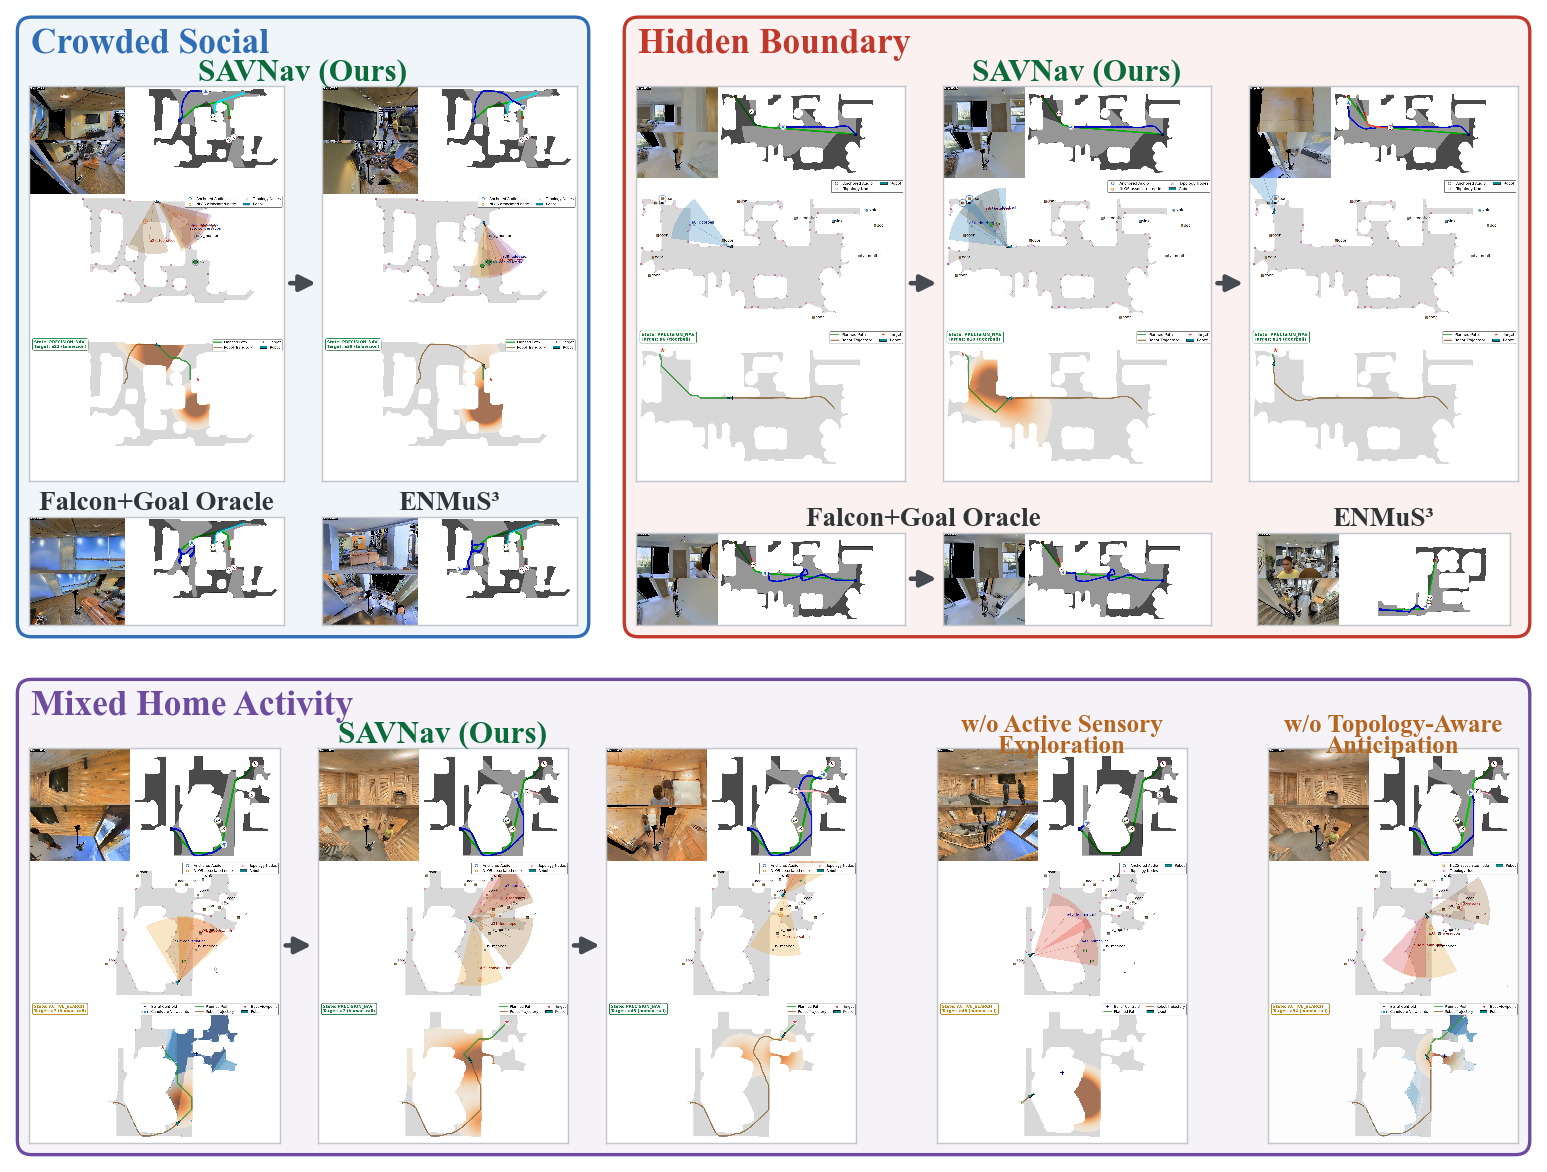
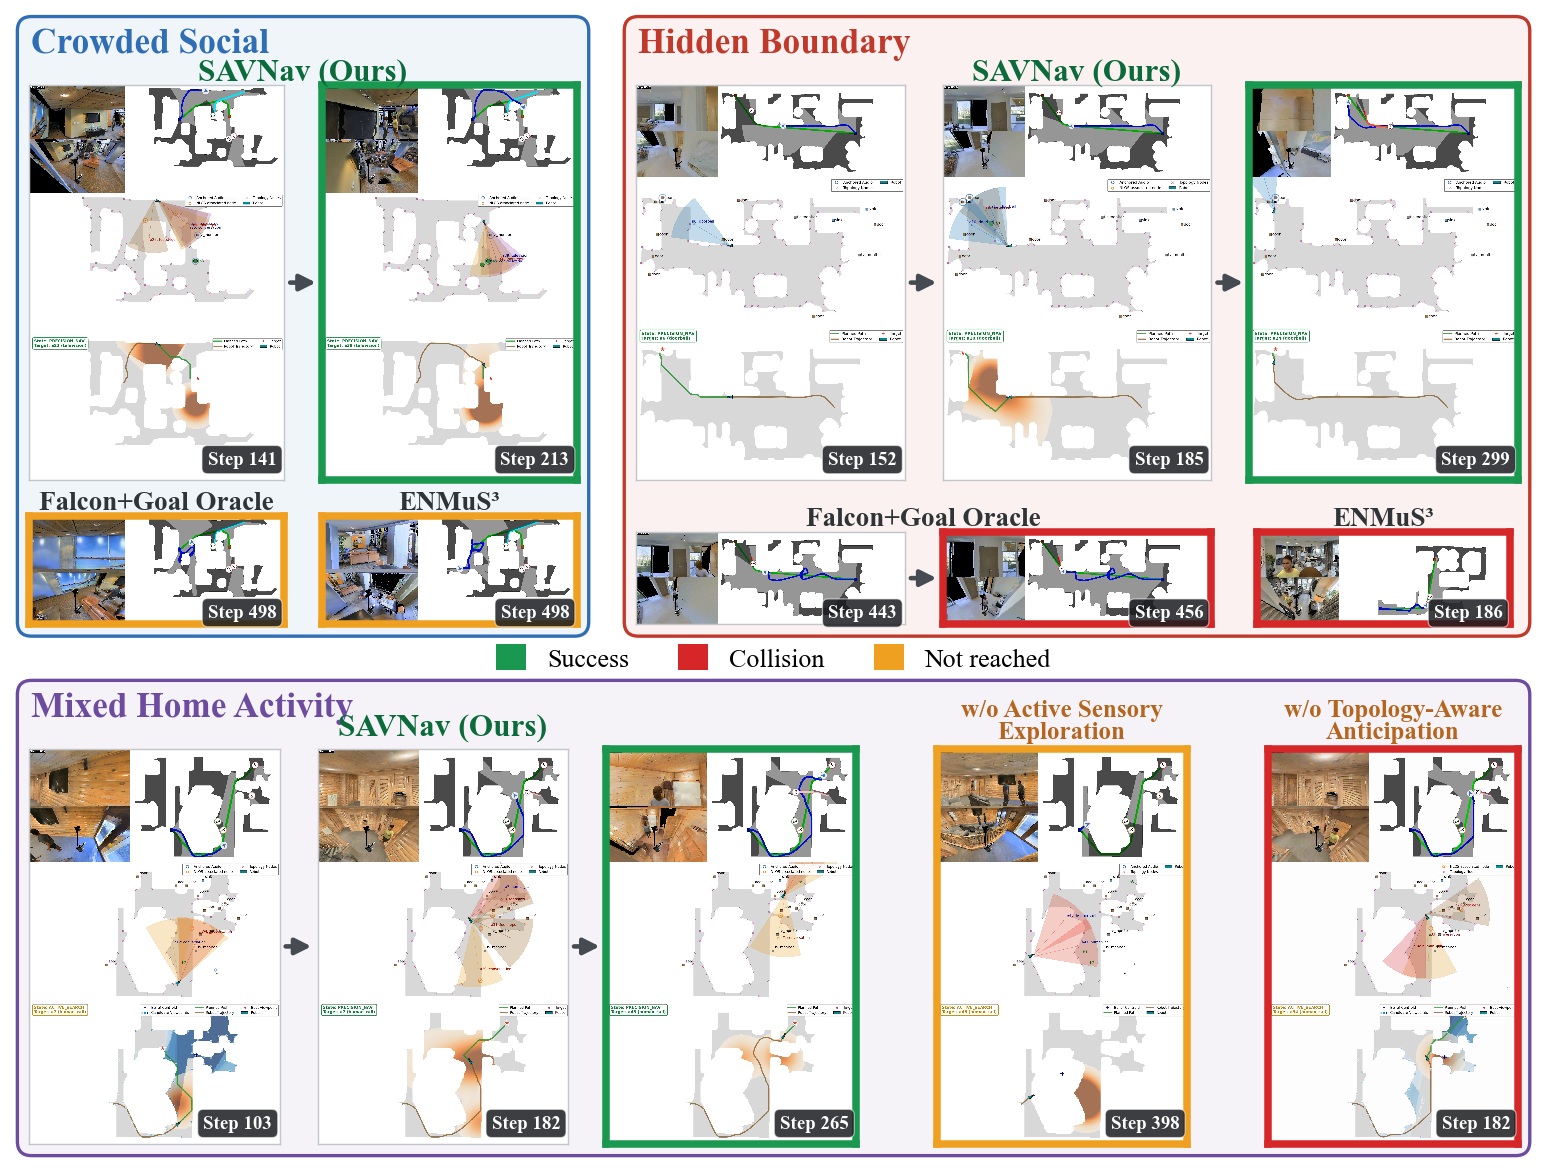
更新实验图表生成脚本，新增可选参数以控制步骤标签和结果边框显示，调整图像输出格式

diff --git a/scripts/build_exp_q_sim.py b/scripts/build_exp_q_sim.py
@@ -22,14 +22,27 @@ stream compression only.  All geometry is in abstract "u" units, top-down
 image aspect ratios are never distorted (figure physical aspect == u-space aspect).
 """
 import os
+import re
+import argparse
 import matplotlib
 matplotlib.use("Agg")
 import matplotlib.pyplot as plt
-from matplotlib.patches import FancyBboxPatch
+from matplotlib.patches import FancyBboxPatch, Rectangle, Patch
 from PIL import Image
 
 ROOT = os.path.dirname(os.path.dirname(os.path.abspath(__file__)))
 SRC = os.path.join(ROOT, "figures", "qualitative_exp", "sim")
+
+# ---- optional features (both default ON) -----------------------------------
+_ap = argparse.ArgumentParser(description="Compose figures/exp-q-sim.pdf")
+_ap.add_argument("--no-step-labels", dest="step_labels", action="store_false",
+                 help="disable the per-keyframe step badge")
+_ap.add_argument("--no-outcome-frames", dest="outcome_frames", action="store_false",
+                 help="disable the coloured outcome border on terminal keyframes")
+_ap.set_defaults(step_labels=True, outcome_frames=True)
+ARGS, _ = _ap.parse_known_args()
+SHOW_STEP_LABELS = ARGS.step_labels
+SHOW_OUTCOME_FRAMES = ARGS.outcome_frames
 
 # ---- font: match the paper (Times) -----------------------------------------
 matplotlib.rcParams["font.family"] = "serif"
@@ -43,26 +56,57 @@ matplotlib.rcParams["pdf.fonttype"] = 42     # embed TrueType, text stays select
 PDF_DPI = 700
 
 # ---- source frames ----------------------------------------------------------
+# Terminal keyframes carry an outcome tag in the filename (__success / __collision
+# / __unreached); non-terminal frames do not.  This is the single source of truth
+# for the outcome border going forward.
 F = {
     "los_ours1":  "los-ep0-ours.mp4_000006.720.png",
-    "los_ours2":  "los-ep0-ours.mp4_000010.176.png",
-    "los_falcon": "los-ep0-falcon.mp4_000024.021.png",
-    "los_enmus":  "los-ep0-enmus.mp4_000024.021.png",
+    "los_ours2":  "los-ep0-ours.mp4_000010.176__success.png",
+    "los_falcon": "los-ep0-falcon.mp4_000024.021__unreached.png",
+    "los_enmus":  "los-ep0-enmus.mp4_000024.021__unreached.png",
     "nlos_ours1": "nlos-ep785-ours.mp4_000007.247.png",
     "nlos_ours2": "nlos-ep785-ours.mp4_000008.804.png",
-    "nlos_ours3": "nlos-ep785-ours.mp4_000014.357.png",
+    "nlos_ours3": "nlos-ep785-ours.mp4_000014.357__success.png",
     "nlos_falcon1": "nlos-ep785-falocn.mp4_000021.218.png",
-    "nlos_falcon2": "nlos-ep785-falocn.mp4_000022.005.png",
-    "nlos_enmus": "nlos-ep1-enmus.mp4_000009.045.png",
+    "nlos_falcon2": "nlos-ep785-falocn.mp4_000022.005__collision.png",
+    "nlos_enmus": "nlos-ep1-enmus.mp4_000009.045__collision.png",
     "mix_ours1":  "mixed-ep3-ours.mp4_000004.865.png",
     "mix_ours2":  "mixed-ep3-ours.mp4_000008.687.png",
-    "mix_ours3":  "mixed-ep3-ours.mp4_000012.673.png",
-    "mix_nosearch": "mixed-ep3-ours_no_search.mp4_000019.058.png",
-    "mix_noaudio":  "mixed-ep3-ours_no_audio_cost.mp4_20260714_004116.962.png",
+    "mix_ours3":  "mixed-ep3-ours.mp4_000012.673__success.png",
+    "mix_nosearch": "mixed-ep3-ours_no_search.mp4_000019.058__unreached.png",
+    "mix_noaudio":  "mixed-ep3-ours_no_audio_cost.mp4_20260714_004116.962__collision.png",
 }
 IMG = {k: Image.open(os.path.join(SRC, v)) for k, v in F.items()}
 def ar(k):  # aspect ratio w/h
     return IMG[k].size[0] / IMG[k].size[1]
+
+# ---- step number per keyframe ----------------------------------------------
+# The sim logical frame rate (1/update_dt) is ~20.83 Hz (drafts/savnav_impl.md),
+# so a frame's step is derivable from the "<t>" in "*.mp4_<t>.png" as round(t*FPS).
+# The sim's effective fps jitters by a frame or two, so we pin the EXACT step read
+# from each frame's baked "Step" overlay; filename derivation is the fallback for
+# any new/un-pinned frame (and the only option for frames lacking a video timestamp).
+FPS_SIM = 20.83
+STEP_EXACT = {
+    "los_ours1": 141, "los_ours2": 213, "los_falcon": 498, "los_enmus": 498,
+    "nlos_ours1": 152, "nlos_ours2": 185, "nlos_ours3": 299,
+    "nlos_falcon1": 443, "nlos_falcon2": 456, "nlos_enmus": 186,
+    "mix_ours1": 103, "mix_ours2": 182, "mix_ours3": 265,
+    "mix_nosearch": 398, "mix_noaudio": 182,
+}
+def step_for(k):
+    if k in STEP_EXACT:
+        return STEP_EXACT[k]
+    m = re.search(r"\.mp4_(\d+\.\d+)(?:__|\.png)", F[k])
+    return round(float(m.group(1)) * FPS_SIM) if m else None
+
+# ---- outcome per keyframe (parsed from the filename tag) --------------------
+OUTCOME_C = {"success": "#1a9850", "collision": "#d62728", "unreached": "#f0a020"}
+OUTCOME_LABEL = {"success": "Success", "collision": "Collision",
+                 "unreached": "Not reached"}
+def outcome_for(k):
+    m = re.search(r"__(success|collision|unreached)\.png$", F[k])
+    return m.group(1) if m else None
 
 # ---- palette ----------------------------------------------------------------
 OURS_C  = "#0b6b3a"   # green  -> our method
@@ -76,7 +120,7 @@ ACC = {"los": "#2f6db5", "nlos": "#c0392b", "mixed": "#6d4c9f"}
 H_TALL     = 1000.0    # height of a tall (portrait) panel
 SEQ_GAP    = 96.0      # gap between consecutive frames (hosts the sequence arrow)
 GAP_REGION = 150.0     # gap between LOS and NLOS
-GAP_V      = 168.0     # gap between top block and Mixed block
+GAP_V      = 172.0     # gap between top block and Mixed block (holds outcome legend)
 TITLE_H    = 86.0      # band reserved above a region for its title
 METHOD_H   = 58.0      # band reserved above a sub-row for method labels
 ROW_GAP    = 34.0      # min gap between the tall sub-row and the wide sub-row
@@ -154,8 +198,8 @@ def build_mixed_region(rx, ry, total_w, groups):
     for gi, (keys, label, color, fs) in enumerate(groups):
         cw = col_w[keys[0]]
         gw = group_w[gi]
-        add_text(label, x + gw / 2, y_tall - METHOD_H * 0.52,
-                 fs=fs, color=color, weight="bold")
+        add_text(label, x + gw / 2, y_tall - 16,
+                 fs=fs, color=color, weight="bold", va="bottom")
         for j, k in enumerate(keys):
             add_img(k, x, y_tall, cw, H_TALL)
             if j > 0:                               # sequence arrow (Ours x3)
@@ -234,8 +278,25 @@ for key, x, ytop, w, h in panels:
     ax.imshow(IMG[key], interpolation="none")
     ax.set_xticks([]); ax.set_yticks([])
     ax.set_zorder(5)
+    # outcome border: coloured + thick on terminal frames, subtle grey otherwise
+    oc = outcome_for(key)
+    if SHOW_OUTCOME_FRAMES and oc:
+        ecol, elw = OUTCOME_C[oc], 3.6
+    else:
+        ecol, elw = "#c3c7cc", 0.7
     for s in ax.spines.values():
-        s.set_visible(True); s.set_edgecolor("#c3c7cc"); s.set_linewidth(0.7)
+        s.set_visible(True); s.set_edgecolor(ecol); s.set_linewidth(elw)
+        s.set_zorder(8)
+    # step badge, top-left of the panel
+    if SHOW_STEP_LABELS:
+        st = step_for(key)
+        if st is not None:
+            ax.text(0.970, 0.030, f"Step {st}", transform=ax.transAxes,
+                    ha="right", va="bottom", fontsize=9, color="white",
+                    weight="bold", zorder=12,
+                    bbox=dict(boxstyle="round,pad=0.30",
+                              facecolor=(0.10, 0.11, 0.12, 0.85),
+                              edgecolor=(1, 1, 1, 0.55), linewidth=0.6))
 
 # foreground: titles, labels, arrows -----------------------------------------
 fg = fig.add_axes([0, 0, 1, 1]); fg.set_xlim(0, Ltot); fg.set_ylim(0, Htot)
@@ -254,6 +315,17 @@ for xm, yc in arrows:
     fg.annotate("", xy=(xm + half, Y), xytext=(xm - half, Y),
                 arrowprops=dict(arrowstyle="-|>", color=ARROW_C, lw=2.2,
                                 mutation_scale=16, shrinkA=0, shrinkB=0))
+
+# outcome legend, centered in the band between the top regions and Mixed -------
+if SHOW_OUTCOME_FRAMES:
+    lax = fig.add_axes(to_frac(x0, y0 + TOP_H, TOP_W, GAP_V))
+    lax.axis("off")
+    handles = [Patch(facecolor=OUTCOME_C[o], edgecolor="none",
+                     label=OUTCOME_LABEL[o])
+               for o in ("success", "collision", "unreached")]
+    lax.legend(handles=handles, ncol=3, loc="center", frameon=False,
+               fontsize=12.5, handlelength=1.15, handleheight=1.15,
+               columnspacing=1.9)
 
 out_pdf = os.path.join(ROOT, "figures", "exp-q-sim.pdf")
 out_png = os.path.join(ROOT, "figures", "exp-q-sim.png")